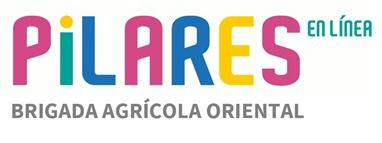
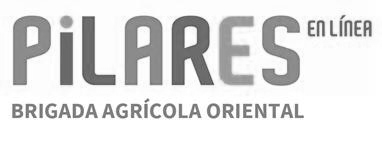
Cambiar a escala de grises el logotipo

Changed region(s): [[0.0288, 0.0839, 0.9791, 0.6154]]

diff --git a/index.html b/index.html
@@ -133,7 +133,7 @@
                 <a><img class="foto" id="fotoAdrian" src="./img/AdrianBB.jpeg" onmouseover="actualAdrian()" onmouseout="niñoAdrian()"> </a>
                 <h4>Adrian</h4>
                 <h3>Tallerista de Electrónica</h3>
-                <p> "Si llevas tu infancia contigo, nunca envejecerás." Tom Stoppard."</p>
+                <p> "Si llevas tu infancia contigo, nunca envejecerás." Tom Stoppard.</p>
             </div>
             <div id="bloqueSecundario">
                 <a><img class="foto" id="fotoMartha" src="./img/MarthaBB.jpeg" onmouseover="actualMartha()" onmouseout="niñaMartha()"> </a>

diff --git a/css/style.css b/css/style.css
@@ -4,7 +4,8 @@ body{
 }
 
 header{
-    background: #009288ff;
+   /* background: #009288ff;*/
+   background: #808080;
     width:100%;
     height: 120px;
     font-family: 'Roboto', sans-serif;
@@ -27,7 +28,8 @@ main{
   }
 
 footer{
-    background: #009288ff;
+   /* background: #009288ff;*/
+   background: #808080;
     width: 100%;
     height: 200px;
 }
